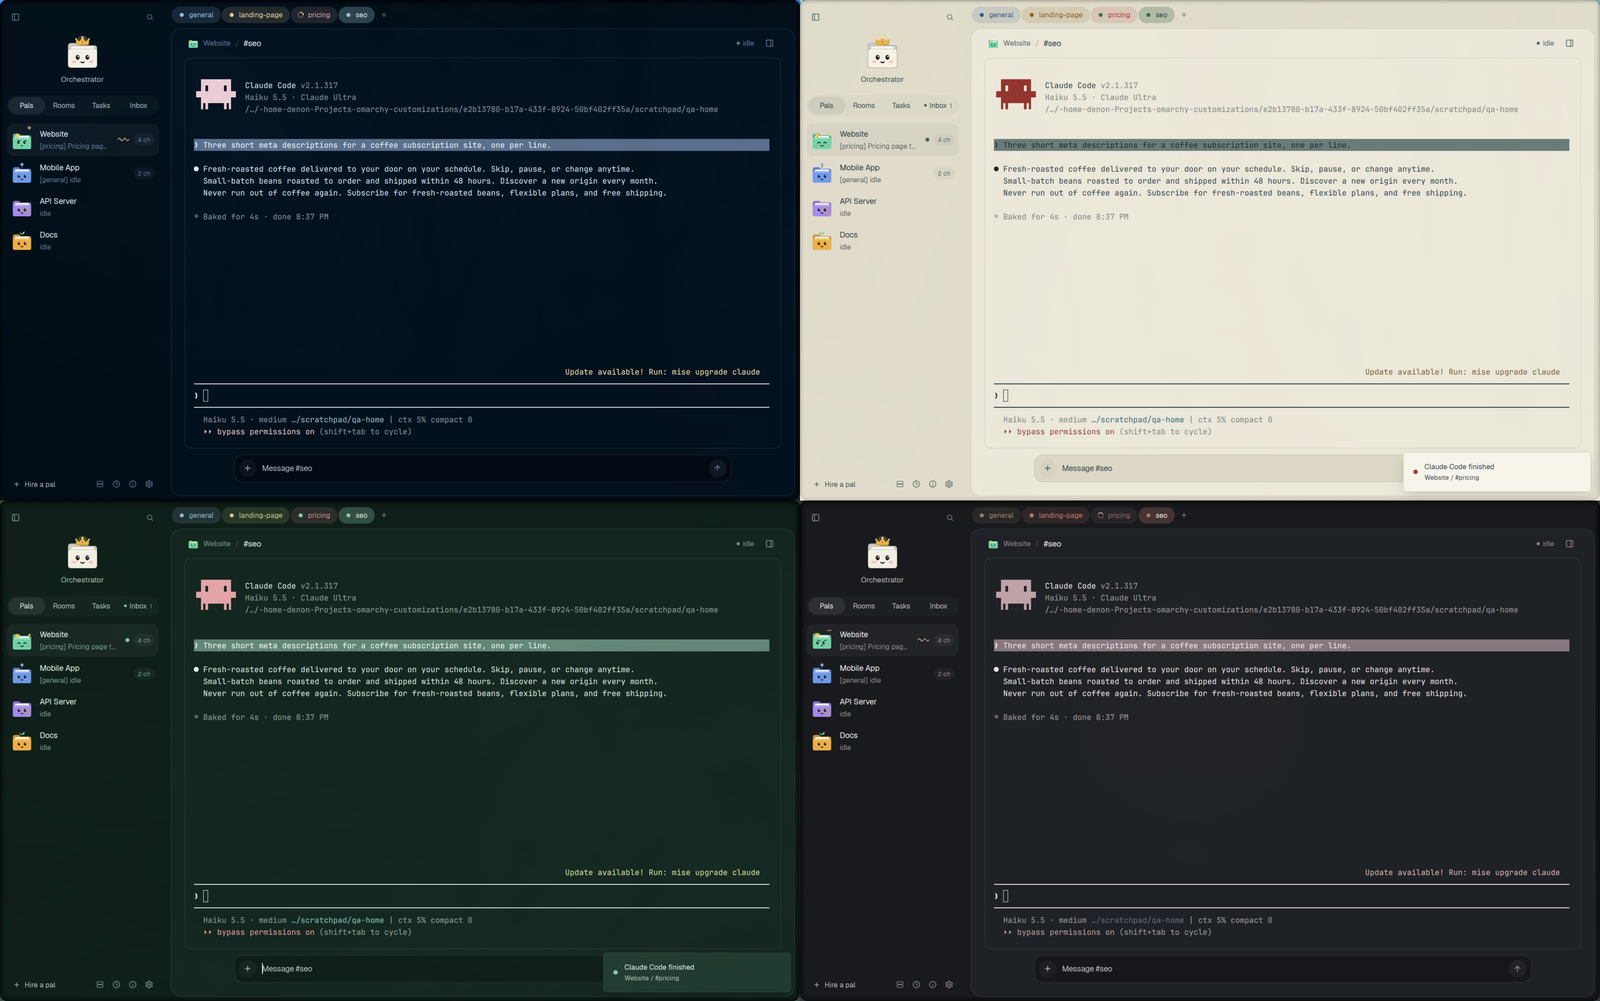
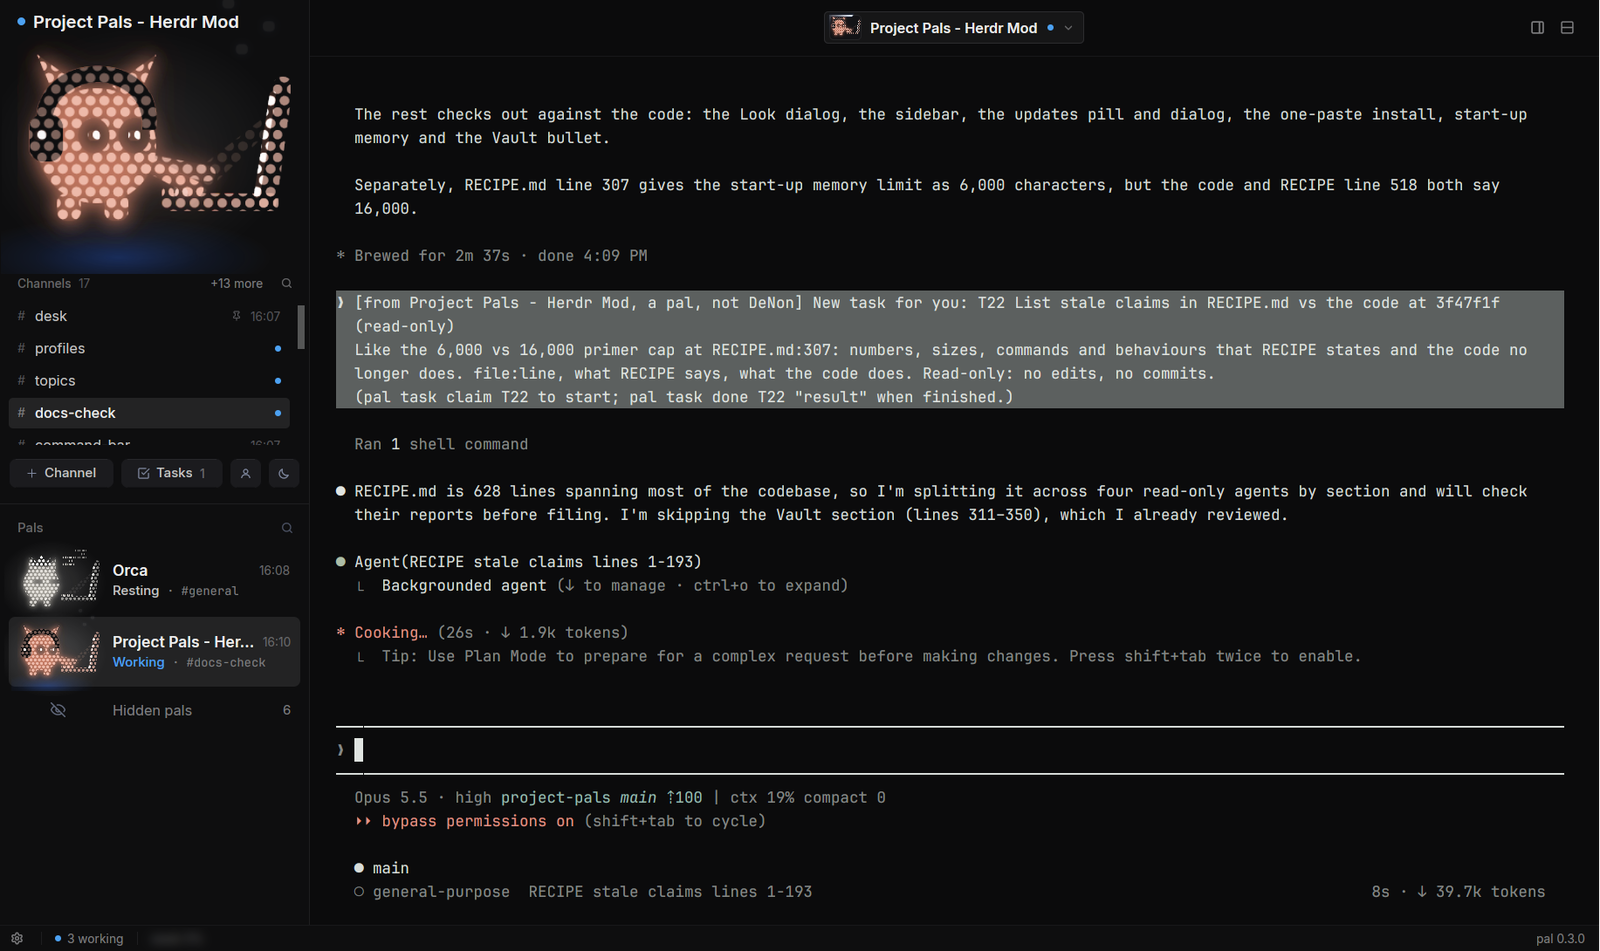
preview.png: a real 0.3.0 window with an agent at work; README links the website
The herdr.dev card still showed the Nov 5 preview. It's now docs/media/overview.png
(the live set, privacy-checked, 0.3.0 UI) scaled to 1600 wide. The README links
project-pals.vercel.app near the top, and RECIPE says how the preview is made now.

diff --git a/RECIPE.md b/RECIPE.md
@@ -131,9 +131,9 @@ profile panel when it's open. The status bar runs under everything.
     disk, an empty #131316 box of the same size holds its place.
 - **Demo filter (for screenshots):** `data/crew-demo.json` `{"only": ["Website", …]}` makes that
   window's sidebar show just those pals, and `{"states": {"Website": "pr", …}}` shows those pals'
-  pets in that tile state; no file, everyone, live. `preview.png` was made this way in a second
-  Herdr window (`HERDR_APP_HOME` on a short path, started without the `HC_*` variables), across four
-  Omarchy themes.
+  pets in that tile state; no file, everyone, live. Screenshots come from a second Herdr window
+  (`HERDR_APP_HOME` on a short path). Since 0.3.0, `preview.png` is `docs/media/overview.png`
+  scaled to 1600 wide: that window on the real herdr-core, with a real agent working.
 - **`pal hire --model haiku|sonnet|opus`** puts `--model` on the hired pal's command line.
 - **Models:** Hire and New channel have a **Model** row for Claude Code (Your default · Opus ·
   Sonnet · Haiku; New channel adds "Same as <pal>"). It goes on that command line as `--model`,

diff --git a/README.md b/README.md
@@ -4,7 +4,9 @@ A [Herdr](https://herdr.dev) layout that turns your coding agents into a crew of
 spirit of Grok's bots but for any harness: Claude Code, Codex, Grok CLI, Gemini CLI, opencode,
 Hermes and more.
 
-![Project Pals in Herdr: the pals sidebar with pocket pets, a pal's channels and its terminal](preview.png)
+**Website:** [project-pals.vercel.app](https://project-pals.vercel.app)
+
+![Project Pals in Herdr: the pals sidebar with pocket pets, a pal's channels and a Claude Code session at work](preview.png)
 
 **Linux only for now.** The helpers run as a systemd user service, so macOS (and WSL or containers
 without a systemd user session) aren't supported yet. See [docs/mac-support.md](docs/mac-support.md).
